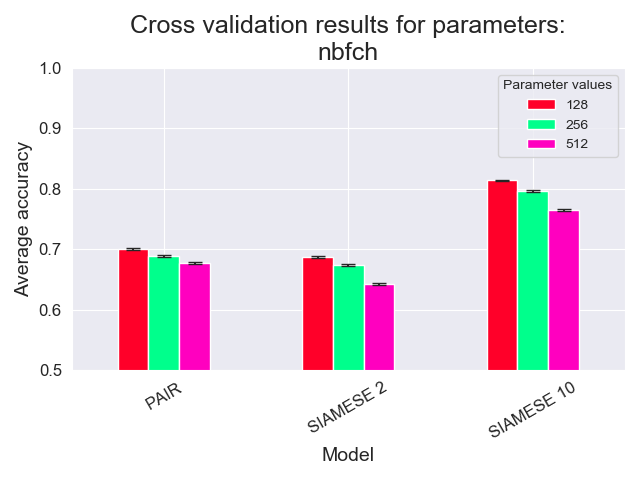
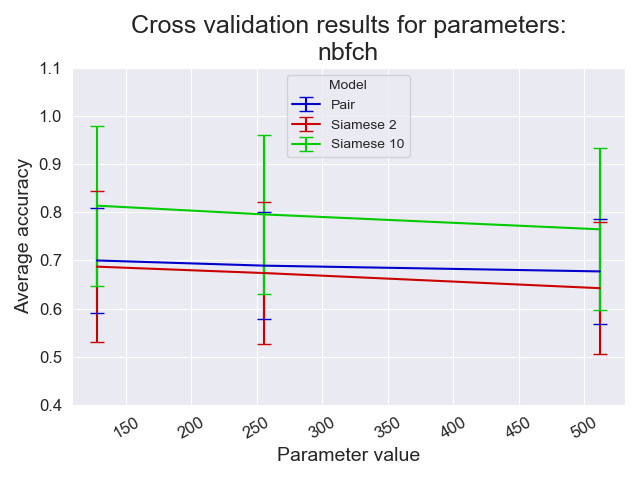
Fix incorrect standard deviations and improve plots

diff --git a/Project1/plot.py b/Project1/plot.py
@@ -23,9 +23,7 @@ def visualize_cross_validation_results(cross_val_results, plots_filepath):
         data = []
         for param_gropby_levels in ((0,), (1,), (2,), (3, 4), (5,)):
             aggregate_scores = scores.groupby(level=param_gropby_levels).mean()
-            # Std[Mean(X)] = sqrt(Var[Sum(X) / N]) = sqrt(Sum(Var[X]) / N^2) = sqrt(Sum(Std[X]^2)) / N
-            n = scores.shape[0]
-            aggregate_stds = stds.groupby(level=param_gropby_levels).apply(lambda x: x.pow(2).sum().pow(0.5) / n)
+            aggregate_stds = scores.groupby(level=param_gropby_levels).std()
             data.append((aggregate_scores, aggregate_stds))
         return data
 
@@ -34,7 +32,7 @@ def visualize_cross_validation_results(cross_val_results, plots_filepath):
     siamese_model_10_data = aggregate_results(siamese_model_scores_10, siamese_model_stds_10)
 
     # Group results for all models
-    model_names = ("PAIR", "SIAMESE 2", "SIAMESE 10")
+    model_names = ("Pair", "Siamese 2", "Siamese 10")
     grouped_data = []
     for pair_model_group_data, siamese_model_2_group_data, siamese_model_10_group_data in zip(pair_model_data,
                                                                                               siamese_model_2_data,
@@ -49,19 +47,19 @@ def visualize_cross_validation_results(cross_val_results, plots_filepath):
 
         grouped_data.append((score_mean_data, score_std_data))
 
-    plots_param_names = ("nbch1", "nbch2", "nbfch", "batch_norm,skip_con", "lr")
-    for plot_param_names, (score_mean_data, score_std_data) in zip(plots_param_names, grouped_data):
+    plots_param_names = ("nbch1", "nbch2", "nbfch", "batch_norm+skip_con", "lr")
+    for i, (plot_param_names, (score_mean_data, score_std_data)) in enumerate(zip(plots_param_names, grouped_data)):
         plt.figure(figsize=(10, 5))
-        score_mean_data.transpose().plot.bar(yerr=score_std_data.transpose(),
-                                             capsize=5,
-                                             ylim=(0.5, 1),
-                                             colormap="gist_rainbow")
+        score_mean_data.plot.line(yerr=score_std_data,
+                                  capsize=5,
+                                  ylim=(0.4, 1.1),
+                                  colormap=colormap_brg_darker)
         plt.title("Cross validation results for parameters:\n{}".format(plot_param_names), fontsize=18)
-        plt.xlabel("Model", fontsize=14)
+        plt.xlabel("Parameter value", fontsize=14)
         plt.ylabel("Average accuracy", fontsize=14)
         plt.xticks(fontsize=12, rotation=30)
         plt.yticks(fontsize=12)
-        plt.legend(title="Parameter values", title_fontsize=10)
+        plt.legend(title="Model", title_fontsize=10)
         plt.tight_layout()
         plt.savefig(fname=plots_filepath + "cross_validation_{}.png".format(plot_param_names),
                     dpi="figure", format="png")
@@ -82,7 +80,7 @@ def visualize_gradient_norms(gradient_norms, parameter_names, plot_filepath):
         ax.tick_params(axis="x", labelsize=10)
         ax.tick_params(axis="y", labelsize=10)
         grad_norms.plot.line(ax=ax, figsize=(10, 5),
-                             colormap="gist_rainbow",
+                             colormap="plasma_r",
                              logy=True,
                              ylim=(1e-6, 1e6))
         ax.legend(title="Depth", prop={"size": 6}, title_fontsize=8)
